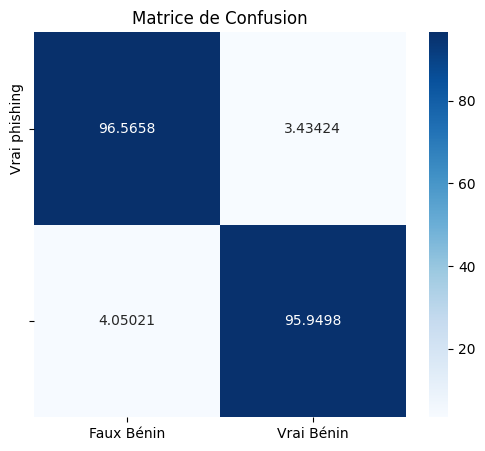
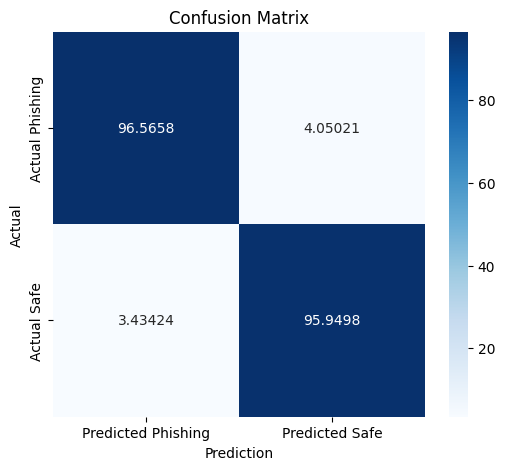
Added : Better label

diff --git a/src/plot.py b/src/plot.py
@@ -128,8 +128,8 @@ def get_confusion_matrix(data):
             elif res == "benign" and actual == "phishing": 
                 false_benign += 1
 
-    confusion_matrix = np.array([[true_phishing, false_phishing], 
-                     [false_benign, true_benign]])
+    confusion_matrix = np.array([[true_phishing, false_benign], 
+                     [false_phishing, true_benign]])
 
     # percentage 
 
@@ -143,32 +143,27 @@ def get_confusion_matrix(data):
     false_positif_percent = 100-true_positif_percent
 
     matrix_percentage = np.array([
-    [true_positif_percent,false_positif_percent],
-    [false_negatif_percent,true_negatif_percent] ]
+    [true_positif_percent,false_negatif_percent],
+    [false_positif_percent,true_negatif_percent] ]
     )
     
     return (confusion_matrix,matrix_percentage)
 
-
-
-
-def plot_confusion_matrix(conf_matrix,filename):
+def plot_confusion_matrix(conf_matrix, filename):
     '''
-    Plot a confusion matrix and saves it using the filename given as argument
+    Plot a confusion matrix and save it using the given filename.
     '''
-    matrix_labels = [
-        ["Vrai phishing", ""],
-        ["Faux Bénin", "Vrai Bénin"]
-    ]
-
+    
     plt.figure(figsize=(6,5))
     
-    sns.heatmap(conf_matrix, annot=True, cmap="Blues", fmt='g', xticklabels=matrix_labels[1], yticklabels=matrix_labels[0])
+    sns.heatmap(conf_matrix, annot=True, cmap="Blues", fmt='g', xticklabels=["Predicted Phishing", "Predicted Safe"], yticklabels=["Actual Phishing", "Actual Safe"])
     
-    plt.title("Matrice de Confusion")
+    plt.title("Confusion Matrix")
+    plt.xlabel("Prediction")
+    plt.ylabel("Actual")
     plt.savefig(filename, bbox_inches="tight")
-    plt.close()  
-
+    plt.close()
+    
 if __name__ == "__main__":
 
     # analysizing data 
